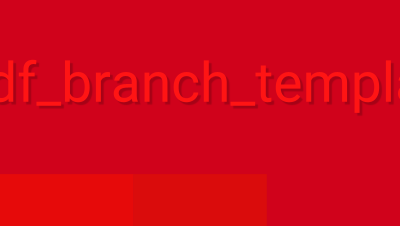
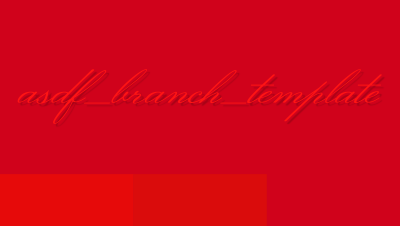
Save template: asdf_branch_template

Changed region(s): [[0.0, 0.2478, 1.0, 0.5575]]

diff --git a/.contentfusion/templates/asdf_branch_template/styles.css b/.contentfusion/templates/asdf_branch_template/styles.css
@@ -2,10 +2,14 @@
 @colors&{"titlesAccentColor":"#e60a0a","labelsAccentColor":"#da0c0c","linksAccentColor":"#d0021b","backgroundAccentColor":"#d0021b","isDefault":false}&colors@
 @info@STYLES BASKET SELECTIONS METADATA@info@
 @name&styles_basket&name@
-@aspects&wh-tiles,accent-colors-selector&aspects@
+@aspects&wh-tiles,accent-colors-selector,fonts-selector&aspects@
 @info@WARNING: PLEASE DON'T MODIFY THIS FILE. MODIFICATION CAN CAUSE UPLOADING ERRORS@info@
 @info@TIP: YOU CAN USE custom.css TO ADD CUSTOM SELECTORS.@info@
 #*/
+@font-face {
+  font-family: 'BrandingFont';
+  src: url(resources/primaryBrandingFonts.ttf) format('truetype');
+}
 /* Bold selection in Publication TOC. WebHelp only. */
 @media screen {
   .wh_publication_toc .active > .topicref a {
@@ -44,6 +48,36 @@ a:visited {
 }
 *[class~='topic/table'] th {
   background-color: #d0021b;
+}
+/*fonts-selector*/
+@page {
+  font-family: 'BrandingFont', sans-serif;
+}
+.topictitle1,
+.topictitle2,
+.topictitle3,
+.topictitle4,
+.topictitle5,
+.topictitle6,
+*[class~='front-page/front-page-title'],
+*[class~="toc/title"],
+*[class~="map/topicref"],
+*[class~='topic/title'],
+*[class~='topic/thead'],
+*[class~="placeholder/figurelist"],
+*[class~="placeholder/tablelist"],
+*[class~="index/groups"]::before,
+*[class~="index/group"] > *[class~="index/label"],
+.wh_publication_title,
+.wh_top_menu,
+.wh_tile_title .topicref,
+.wh_main_page_toc_entry .topicref,
+.wh_index_terms span.wh_first_letter,
+.wh-letters li a {
+  font-family: 'BrandingFont', sans-serif;
+}
+body {
+  font-family: 'SecondaryBrandingFont', sans-serif;
 }
 /*wh-tiles*/
 
